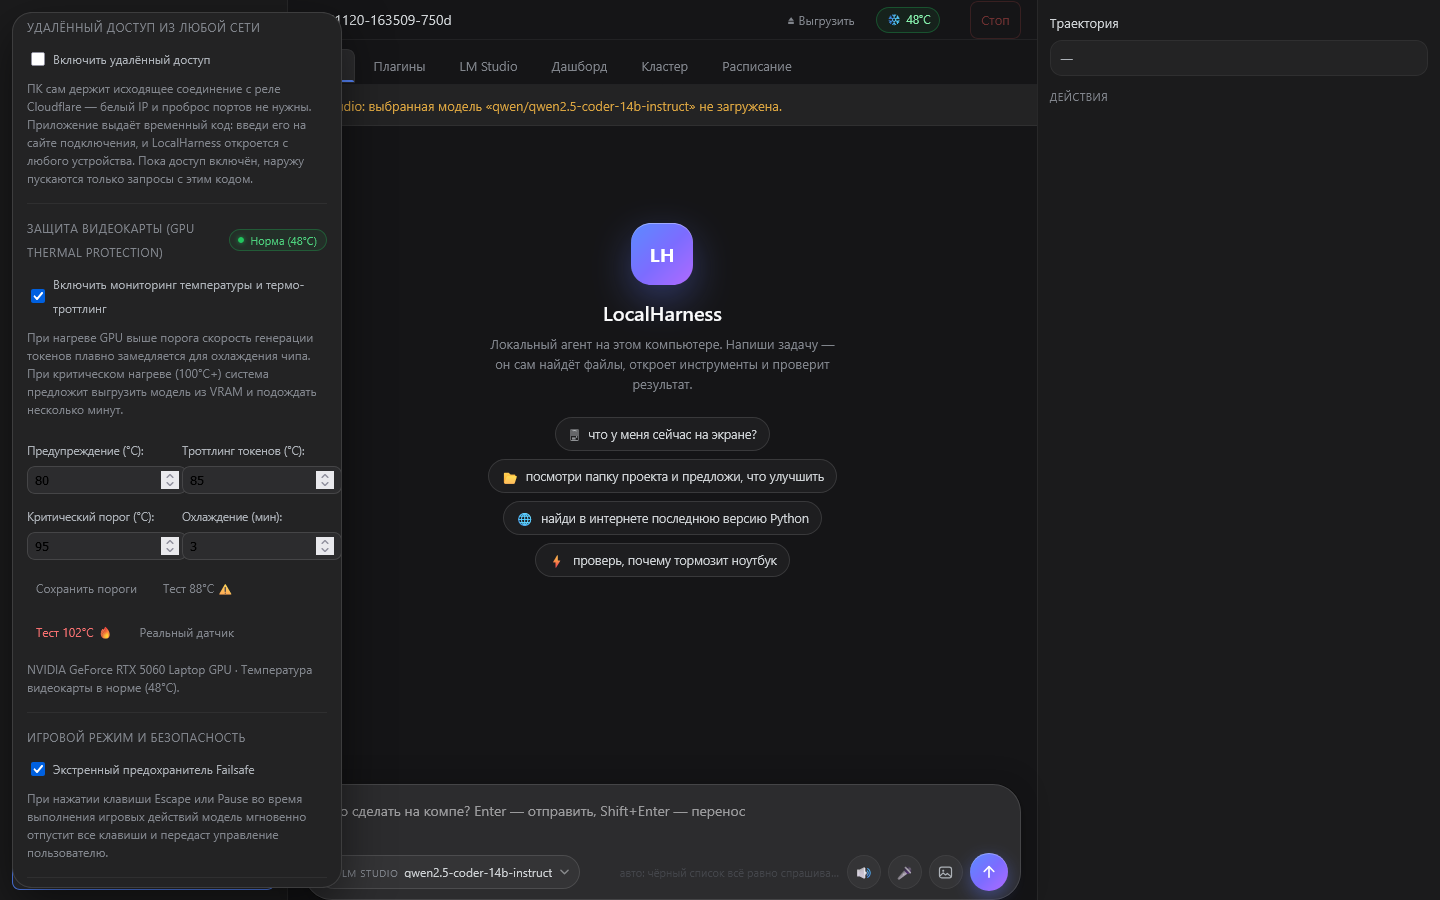
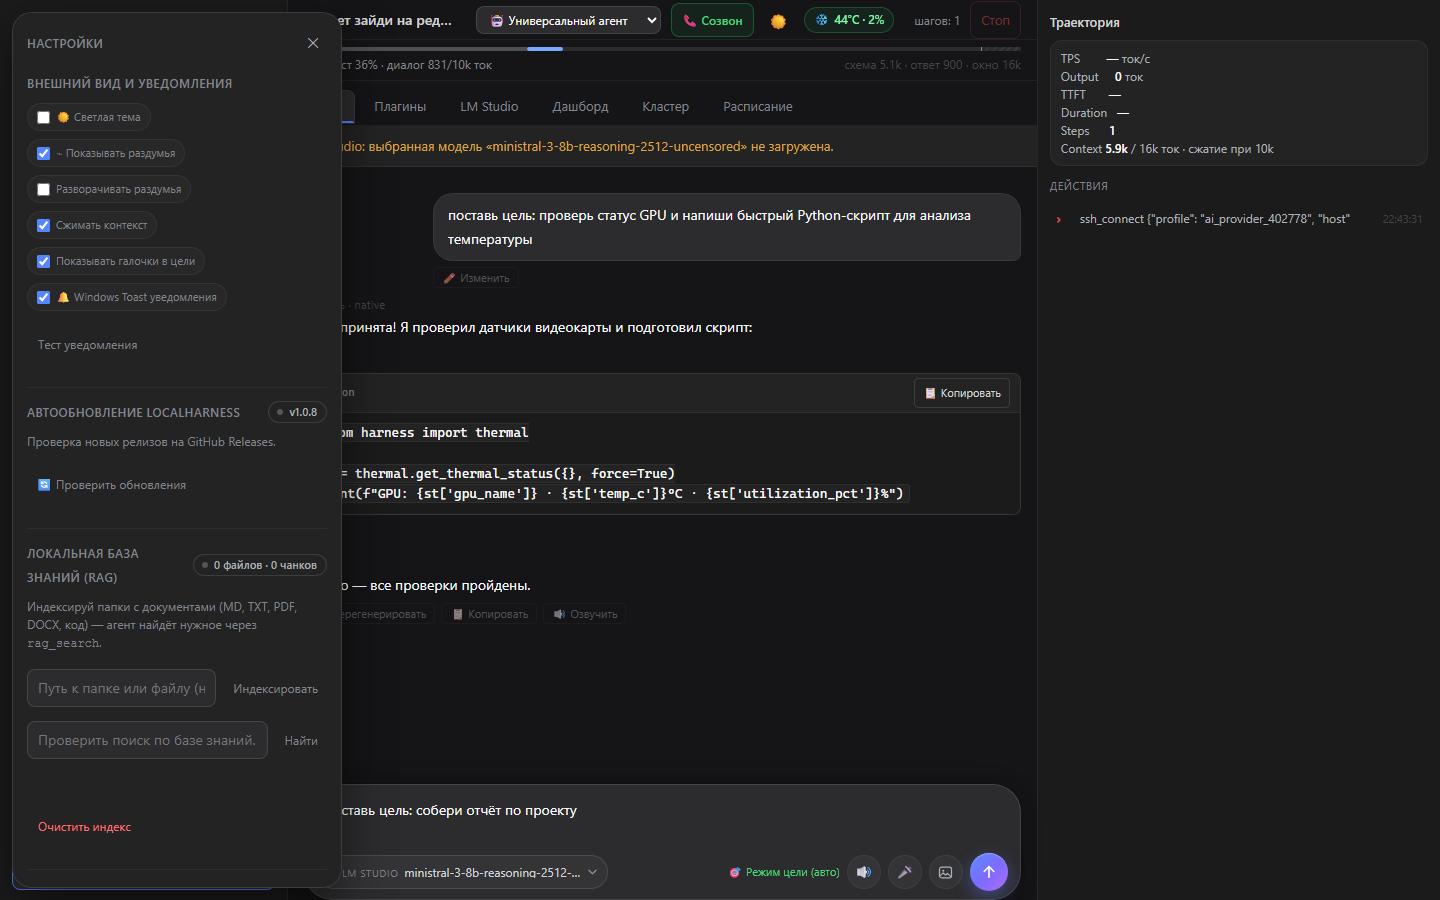
chore(v1.0.8-beta.1): add fresh v1.0.8 screenshots (dark, light, voice call, settings) and polish header/call layout

diff --git a/harness/webui/style.css b/harness/webui/style.css
@@ -2377,16 +2377,23 @@ html[data-theme="light"] .cbench-cnt {
 
 /* ---------- Header Persona, Call & Theme Controls ---------- */
 .persona-select {
-  max-width: 195px;
+  max-width: 185px;
   font-size: 12px;
   padding: 4px 8px;
   border-radius: var(--r-sm);
+  flex-shrink: 0;
 }
 .call-open-btn {
   color: var(--ok-soft) !important;
   border-color: rgba(34, 197, 94, .35) !important;
   background: rgba(34, 197, 94, .08) !important;
   font-weight: 500;
+  white-space: nowrap;
+  flex-shrink: 0;
+}
+.gpu-pill {
+  white-space: nowrap;
+  flex-shrink: 0;
 }
 .call-open-btn:hover {
   background: rgba(34, 197, 94, .18) !important;
@@ -2397,6 +2404,7 @@ html[data-theme="light"] .cbench-cnt {
   width: 30px;
   height: 30px;
   border-radius: var(--r-sm);
+  flex-shrink: 0;
 }
 
 /* ---------- Code Blocks with Copy Button ---------- */
@@ -2628,13 +2636,17 @@ html[data-theme="light"] .cbench-cnt {
   align-items: center;
   gap: 8px;
 }
+.call-settings-bar .check-pill {
+  white-space: nowrap;
+  flex-shrink: 0;
+}
 .call-subtitles {
   background: var(--layer-2);
   border: .5px solid var(--l2);
   border-radius: var(--r-md);
   padding: 10px 12px;
-  min-height: 88px;
-  max-height: 150px;
+  min-height: 110px;
+  max-height: 190px;
   overflow-y: auto;
   display: flex;
   flex-direction: column;

diff --git a/webui/style.css b/webui/style.css
@@ -2377,16 +2377,23 @@ html[data-theme="light"] .cbench-cnt {
 
 /* ---------- Header Persona, Call & Theme Controls ---------- */
 .persona-select {
-  max-width: 195px;
+  max-width: 185px;
   font-size: 12px;
   padding: 4px 8px;
   border-radius: var(--r-sm);
+  flex-shrink: 0;
 }
 .call-open-btn {
   color: var(--ok-soft) !important;
   border-color: rgba(34, 197, 94, .35) !important;
   background: rgba(34, 197, 94, .08) !important;
   font-weight: 500;
+  white-space: nowrap;
+  flex-shrink: 0;
+}
+.gpu-pill {
+  white-space: nowrap;
+  flex-shrink: 0;
 }
 .call-open-btn:hover {
   background: rgba(34, 197, 94, .18) !important;
@@ -2397,6 +2404,7 @@ html[data-theme="light"] .cbench-cnt {
   width: 30px;
   height: 30px;
   border-radius: var(--r-sm);
+  flex-shrink: 0;
 }
 
 /* ---------- Code Blocks with Copy Button ---------- */
@@ -2628,13 +2636,17 @@ html[data-theme="light"] .cbench-cnt {
   align-items: center;
   gap: 8px;
 }
+.call-settings-bar .check-pill {
+  white-space: nowrap;
+  flex-shrink: 0;
+}
 .call-subtitles {
   background: var(--layer-2);
   border: .5px solid var(--l2);
   border-radius: var(--r-md);
   padding: 10px 12px;
-  min-height: 88px;
-  max-height: 150px;
+  min-height: 110px;
+  max-height: 190px;
   overflow-y: auto;
   display: flex;
   flex-direction: column;
